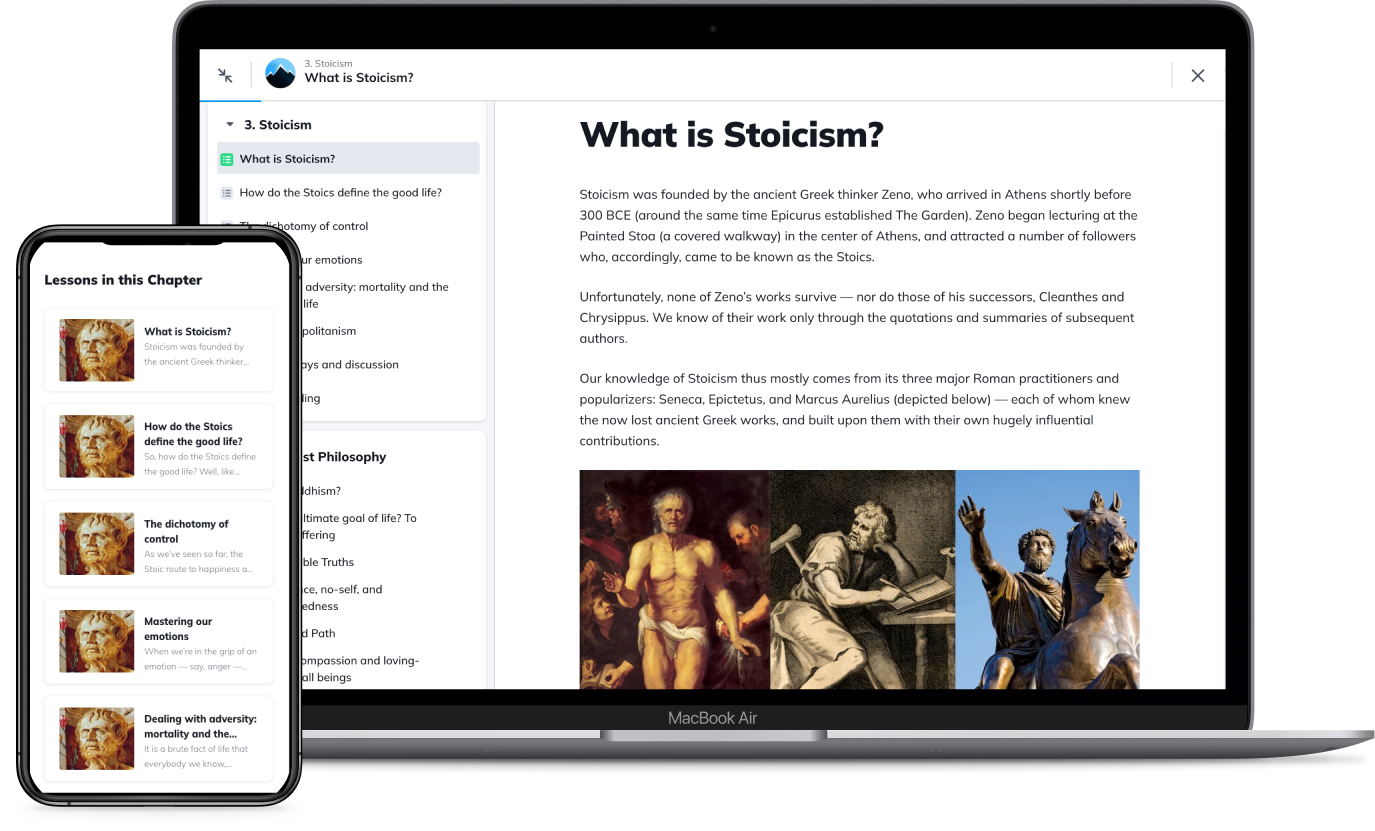
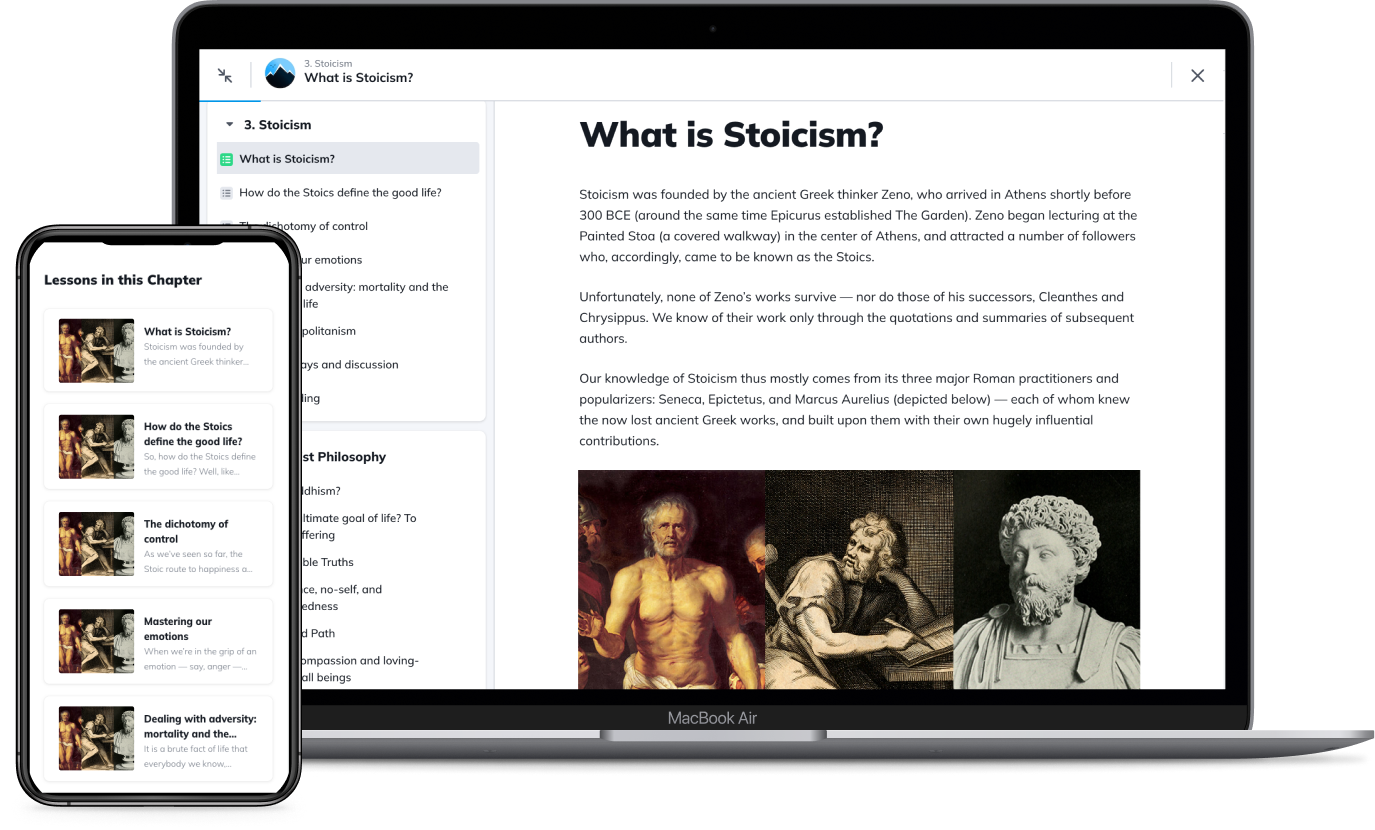
final-bits

diff --git a/src/components/layout.css b/src/components/layout.css
@@ -550,24 +550,25 @@ div.separator {width: 80px; height: 4px; background:linear-gradient(to right top
 /*title center vertically on /articles & fade in (look in js), and moved from bottom 20% to 10% on individual articles (look in js)*/
 div.title-center {position: absolute; left: 0; right: 0;}
 .carousel-cell div.title-center {top: 50%; -ms-transform: translateY(-44%); transform: translateY(-44%);}
-.title div.title-center {bottom: 67px;}
+.title div.title-center {bottom: 54px;}
 div.title-center h1, div.title-center h2, div.title-center p, .title p, .title div, .title div a, .title p a {color: #fff;}
 div.title-center h2 {font-size: 36px; margin: 0; font-weight: 700;}
 div.title-center .description {font-size: 16px; font-family: 'Spectral', serif; letter-spacing: -0.5px;}
-.title.no-author div.title-center .description {margin-bottom: 0;}
 .time {font-size: 12px; font-weight: 400;}
 .time svg, .time div {width: 18px; height: 18px; margin-right: 6px;}
 .time svg {vertical-align: bottom;}
 .time div {vertical-align: sub;}
 svg.bounce {margin-right: 0;}
-.title p.break, .carousel-cell p.break, .featured-image-full p.break {position: absolute; bottom: 26px; left: 0; right: 0;}
+.title p.break, .carousel-cell p.break, .featured-image-full p.break {position: absolute; bottom: 15px; left: 0; right: 0;}
 /*scroll prompt*/
 .scroll-prompt {position: absolute; bottom: 16px; left:76px;}
 .scroll-prompt svg {width: 20px; height: 20px; fill: #fff;}
 .bottom-blue-border {padding-bottom: 1px; border-bottom: solid 2px #36b4ff; font-size: 11px;}
 /*image attribution*/
-#break-start p.hero-image-attribution {font-family: 'Public Sans'; color: #737d88; font-size: 13px; font-style: italic; margin-bottom: 2em;}
+#break-start p.hero-image-attribution svg {fill: #737d88; width: 16px; height: 16px; vertical-align:text-bottom;}
+#break-start p.hero-image-attribution {font-family: 'Public Sans'; color: #737d88; font-size: 14px; font-style: italic; margin-top: 0.5em;margin-bottom: 2em;}
 #break-start p.hero-image-attribution a {color: #737d88; text-decoration-color: #737d88;}
+#break-start p.hero-image-attribution a:hover {color: #fff;}
 /*hide description on small screens*/
 @media (max-height: 475px) {
   .carousel-cell .description, .title .description {display: none;}
@@ -581,11 +582,11 @@ svg.bounce {margin-right: 0;}
   .scroll-prompt {left:0; right: 0;}
   .scroll-prompt svg {margin-left: 76px;}
   .bottom-blue-border {font-size: 12px;}
-  #break-start p.hero-image-attribution {font-size: 15px; margin-top: -0.75em !important;}
+  #break-start p.hero-image-attribution svg {width: 17px; height: 17px; vertical-align: text-top;} 
+  #break-start p.hero-image-attribution {font-size: 15px; margin-top: -0.9em !important;}
 }
 @media (min-width: 1020px) {
-  .title div.title-center {bottom: 26px;}
-  .title.title.no-author div.title-center {bottom: 22px;}
+  .title div.title-center {bottom: 15px;}
   div.page-center.title-center.rl {width: 600px;} /*reading lists*/
 }
 /*change title layout for articles on larger screens to match sidebar*/
@@ -600,7 +601,7 @@ svg.bounce {margin-right: 0;}
 /*reading list title*/
 .title.list {height: 420px;}
 .title.list div.darkener {background: linear-gradient(to bottom, transparent, rgba(0,0,0,0.8));}
-.title.list div.title-center {bottom: 18px;}
+.title.list div.title-center {bottom: 10px;}
 .time.tag {font-size: 10px; margin-bottom: 4px; display: inline-block; color: #fff;}
 .time.tag.home {font-size: 12px;}
 .time.tag.new {margin-left: 6px;}
@@ -620,8 +621,6 @@ div.separator.course.chapter {width: 136px; margin: -3px auto 10px;}
 div.separator.chapter {margin: -3px 0 10px; width: 86px;}
 .title.list h1 {font-size: 36px;}
 .title.list h1 span {font-family: 'Spectral', serif; letter-spacing: -0.5px; margin: 5px 0 0; font-size: 24px; display:block; font-weight: 400;}
-div.attribution span {font-style: italic; font-size: 13px; margin-top: 10px; display: block; color: rgba(255, 255, 255, 0.75)}
-div.attribution span a {color: rgba(255, 255, 255, 0.75); text-decoration-color: rgba(255, 255, 255, 0.75);}
 @media (min-width: 620px) {
   .time.tag {font-size: 12px; margin-bottom: 6px;}
   .time.tag.home {font-size: 14px;}
@@ -639,7 +638,6 @@ div.attribution span a {color: rgba(255, 255, 255, 0.75); text-decoration-color:
   div.separator.course.chapter {width: 164px;}
   .title.list h1 {font-size: 45px;}
   .title.list h1 span {font-size: 28px;}
-  div.attribution span {font-size: 15px;}
 }
 @media (min-width: 1020px) {
   div.separator.reading-list, div.separator.reading-list.banner, #break-start div.separator.reading-list.banner {display: block;}

diff --git a/src/pages/reading-lists/aristotle/index.js b/src/pages/reading-lists/aristotle/index.js
@@ -22,13 +22,18 @@ const ReadingList = ({ data, location }) => {
     <Navigation />
         <ScrollProgressBar />
         {/*reading list title*/}
-        <TitleReadingList title="Aristotle" number="9" img={data.title.childImageSharp.gatsbyImageData} alt="The Book, by Juan Gris" />
+        <TitleReadingList title="Aristotle" number="9" img={data.title.childImageSharp.gatsbyImageData} alt="Aristotle with a Bust of Homer, by Rembrandt (1653)"/>
         
         {/*container for sidebar*/}
         <div id="container">
 
           {/*reading list content*/}
           <div id="break-start" className="page-center" style={{marginBottom: 48}}>
+
+              {/*image attribution*/}
+              <p className="hero-image-attribution"><svg xmlns="http://www.w3.org/2000/svg" viewBox="0 0 512 512"><path d="M464 448H48c-26.51 0-48-21.49-48-48V112c0-26.51 21.49-48 48-48h416c26.51 0 48 21.49 48 48v288c0 26.51-21.49 48-48 48zM112 120c-30.928 0-56 25.072-56 56s25.072 56 56 56 56-25.072 56-56-25.072-56-56-56zM64 384h384V272l-87.515-87.515c-4.686-4.686-12.284-4.686-16.971 0L208 320l-55.515-55.515c-4.686-4.686-12.284-4.686-16.971 0L64 336v48z"/></svg>&nbsp;&nbsp;Aristotle with a Bust of Homer, by Rembrandt (1653), <a target="_blank" rel="noopener noreferrer" href="https://commons.wikimedia.org/wiki/File:Rembrandt_-_Aristotle_with_a_Bust_of_Homer_-_WGA19232.jpg">via Wikimedia Commons</a></p>
+              
+              
               <p><span className="big-letter">A</span>ristotle was an ancient Greek philosopher who, like his <Link to="/reading-lists/plato/">legendary teacher Plato</Link> (and <i>his</i> legendary teacher, <Link to="/reading-lists/socrates/">Socrates</Link>), is considered to be one of the most significant figures in the <Link to="/reading-lists/history-of-western-philosophy/">history of Western philosophy</Link>. Over his lifetime, he transformed most of the subjects he investigated, writing as many as 200 treatises (of which only 31 survive) on topics ranging from logic, <Link to="/reading-lists/political-philosophy/">politics</Link>, and <Link to="/reading-lists/ethics-and-morality/">ethics</Link>, to biology, mathematics, and <Link to="/reading-lists/metaphysics/">metaphysics</Link>. </p> 
 
               <p>It was largely from Aristotle’s works that the West inherited its entire intellectual approach, including the problems it investigates and its methods of inquiry. Consequently, like Plato, Aristotle holds a unique influence on almost every form of knowledge in the West, and his writings continue to be a subject of contemporary debate today.</p>    
@@ -71,7 +76,7 @@ const ReadingList = ({ data, location }) => {
               <h2>4. How to Live a Good Life (According to 7 of the World’s Wisest Philosophies), by Philosophy Break</h2>
               <div className="article white">
                   <Link to="/how-to-live-a-good-life/">
-                        <StaticImage src="../../../images/PFL-mob.png" alt="How to Live a Good Life" placeholder="blurred" />
+                        <StaticImage src="../../../images/how-to-live-a-good-life.png" alt="How to Live a Good Life" placeholder="blurred" />
                         <div className="article-info">
                             <h4>How to Live a Good Life (According to 7 of the World’s Wisest Philosophies)</h4>
                             <p className="time"><svg xmlns="http://www.w3.org/2000/svg" viewBox="0 0 50 50"><path d="M48.336,7.54c-0.701,0-1.359,0.007-2.018,0.024V5.326h-0.734c-14.262,0-19.043,3.411-20.585,5.252 c-1.542-1.841-6.323-5.252-20.585-5.252H3.68v2.237C3.022,7.545,2.364,7.54,1.664,7.54H0V39.89h1.664 c17.595,0,21.186,4.035,21.698,4.784h3.302c0.557-0.784,4.218-4.784,21.673-4.784H50V7.54H48.336z M23.899,38.431 c-2.457-1.812-7.611-3.914-18.383-4.054V7.175c15.087,0.194,18.001,4.327,18.383,5V38.431z M44.484,34.377 c-10.772,0.14-15.926,2.24-18.383,4.054V12.184c0.416-0.737,3.412-4.814,18.383-5.007V34.377z"></path></svg>BY PHILOSOPHY BREAK</p>
@@ -139,7 +144,7 @@ const ReadingList = ({ data, location }) => {
 }
 
 export const query = graphql`{
-  title: file(relativePath: {eq: "rl3.jpg"}) {
+  title: file(relativePath: {eq: "aristotle.jpeg"}) {
     childImageSharp {
       gatsbyImageData(layout: FULL_WIDTH)
     }

diff --git a/src/pages/reading-lists/friedrich-nietzsche/index.js b/src/pages/reading-lists/friedrich-nietzsche/index.js
@@ -22,13 +22,17 @@ const ReadingList = ({ data, location }) => {
     <Navigation />
         <ScrollProgressBar />
         {/*reading list title*/}
-        <TitleReadingList title="Friedrich Nietzsche" number="9" img={data.title.childImageSharp.gatsbyImageData} alt="Fruit and Book, by Juan Gris" />
+        <TitleReadingList title="Friedrich Nietzsche" number="9" img={data.title.childImageSharp.gatsbyImageData} alt="Portrait of Friedrich Nietzsche, by Rudolf Köselitz (1883)" />
         
         {/*container for sidebar*/}
         <div id="container">
 
           {/*reading list content*/}
           <div id="break-start" className="page-center" style={{marginBottom: 48}}>
+
+              {/*image attribution*/}
+              <p className="hero-image-attribution"><svg xmlns="http://www.w3.org/2000/svg" viewBox="0 0 512 512"><path d="M464 448H48c-26.51 0-48-21.49-48-48V112c0-26.51 21.49-48 48-48h416c26.51 0 48 21.49 48 48v288c0 26.51-21.49 48-48 48zM112 120c-30.928 0-56 25.072-56 56s25.072 56 56 56 56-25.072 56-56-25.072-56-56-56zM64 384h384V272l-87.515-87.515c-4.686-4.686-12.284-4.686-16.971 0L208 320l-55.515-55.515c-4.686-4.686-12.284-4.686-16.971 0L64 336v48z"/></svg>&nbsp;&nbsp;Portrait of Friedrich Nietzsche, by Rudolf Köselitz (1883), <a target="_blank" rel="noopener noreferrer" href="https://commons.wikimedia.org/wiki/File:K%C3%B6selitz-Nietzsche.jpg">via Wikimedia Commons</a></p>
+            
               <p><span className="big-letter">F</span>riedrich Nietzsche (1844-1900) was a 19th-century German philosopher who, though hardly read during his own (sane) lifetime, has become a dominant intellectual force in today’s popular culture.</p>
               <p>Perhaps best known for his proclamation that <Link to="/articles/god-is-dead-nietzsche-famous-statement-explained/">God is dead</Link>, along with his critique of conventional morality and religion, Nietzsche is remembered for his attempt to establish what he called a ‘revaluation of all values’, and is celebrated for his brilliant, provocative aphorisms and idea-packed prose (which includes, for instance, his vision of the <Link to="/articles/ubermensch-explained-the-meaning-of-nietzsches-superman/">Übermensch</Link>, his distinction between the <Link to="/articles/apollonian-and-dionysian-nietzsche-on-art-and-the-psyche/">Apollonian and Dionysian</Link>, his presentation of <Link to="/articles/eternal-recurrence-what-did-nietzsche-really-mean/">the eternal recurrence</Link>, <Link to="/articles/amor-fati-the-stoics-and-nietzsche-different-takes-on-loving-fate/"><i>amor fati</i></Link>, what it means to <Link to="/articles/nietzsche-on-what-finding-yourself-actually-means/">find yourself</Link>, his famous passage on <Link to="/articles/nietzsche-on-friends-growing-apart/">friends growing apart</Link>, and all of the <Link to="/articles/nietzsche-quotes-97-of-his-cleverest-statements/">97 clever Nietzsche passages and quotations we’ve collated here</Link>).</p>
               <p>Accordingly, Nietzsche’s reputation in the English-speaking world is now arguably the highest it’s ever been, and his place in philosophy’s canon looks assured.</p> 
@@ -203,7 +207,7 @@ const ReadingList = ({ data, location }) => {
 }
 
 export const query = graphql`{
-  title: file(relativePath: {eq: "rl2.jpg"}) {
+  title: file(relativePath: {eq: "nietzsche.jpg"}) {
     childImageSharp {
       gatsbyImageData(layout: FULL_WIDTH)
     }

diff --git a/src/pages/reading-lists/index.js b/src/pages/reading-lists/index.js
@@ -106,7 +106,7 @@ const Page = ({ data, location }) => {
                 
                 <BannerReadingList title="Plato" number="6" link="/reading-lists/plato/" img={data.rl2.childImageSharp.gatsbyImageData} alt="Fruit and Book, by Juan Gris" />
 
-                <BannerReadingList title="Aristotle" number="9" link="/reading-lists/aristotle/" img={data.rl3.childImageSharp.gatsbyImageData} alt="The Book, by Juan Gris" />
+                <BannerReadingList title="Aristotle" number="9" link="/reading-lists/aristotle/" img={data.aristotle.childImageSharp.gatsbyImageData} alt="Aristotle with a Bust of Homer, by Rembrandt (1653)" />
 
                 <BannerReadingList title="Epicurus" number="6" link="/reading-lists/epicureanism/" img={data.rl4.childImageSharp.gatsbyImageData} alt="The Open Book, by Juan Gris" />
 
@@ -136,7 +136,7 @@ const Page = ({ data, location }) => {
 
                 <BannerReadingList title="Leo Tolstoy" number="5" link="/reading-lists/leo-tolstoy-best-books/" img={data.rl2.childImageSharp.gatsbyImageData} alt="Fruit and Book, by Juan Gris" />
                 
-                <BannerReadingList title="Friedrich Nietzsche" number="9" link="/reading-lists/friedrich-nietzsche/" img={data.rl3.childImageSharp.gatsbyImageData} alt="The Book, by Juan Gris" />
+                <BannerReadingList title="Friedrich Nietzsche" number="9" link="/reading-lists/friedrich-nietzsche/" img={data.nietzsche.childImageSharp.gatsbyImageData} alt="Portrait of Friedrich Nietzsche, by Rudolf Köselitz (1883)" />
 
                 <BannerReadingList title="Franz Kafka" number="5" link="/reading-lists/franz-kafka-best-books/" img={data.rl4.childImageSharp.gatsbyImageData} alt="The Open Book, by Juan Gris" />
 
@@ -273,6 +273,16 @@ export const query = graphql`{
   philosophybreak: file(relativePath: {eq: "philosophybreak.png"}) {
     childImageSharp {
       gatsbyImageData(width: 22, layout: CONSTRAINED)
+    }
+  }
+  nietzsche: file(relativePath: {eq: "nietzsche.jpg"}) {
+    childImageSharp {
+      gatsbyImageData(width: 480, layout: CONSTRAINED)
+    }
+  }
+  aristotle: file(relativePath: {eq: "aristotle.jpeg"}) {
+    childImageSharp {
+      gatsbyImageData(width: 480, layout: CONSTRAINED)
     }
   }
 }

diff --git a/src/pages/reading-lists/introduction-to-philosophy/index.js b/src/pages/reading-lists/introduction-to-philosophy/index.js
@@ -73,7 +73,7 @@ const ReadingList = ({ data, location }) => {
                 <h2>4. How to Live a Good Life (According to 7 of the World’s Wisest Philosophies), by Philosophy Break</h2>
                   <div className="article white">
                       <Link to="/how-to-live-a-good-life/">
-                            <StaticImage src="../../../images/PFL-mob.png" alt="How to Live a Good Life" placeholder="blurred" />
+                            <StaticImage src="../../../images/how-to-live-a-good-life.png" alt="How to Live a Good Life" placeholder="blurred" />
                             <div className="article-info">
                                 <h4>How to Live a Good Life (According to 7 of the World’s Wisest Philosophies)</h4>
                                 <p className="time"><svg xmlns="http://www.w3.org/2000/svg" viewBox="0 0 50 50"><path d="M48.336,7.54c-0.701,0-1.359,0.007-2.018,0.024V5.326h-0.734c-14.262,0-19.043,3.411-20.585,5.252 c-1.542-1.841-6.323-5.252-20.585-5.252H3.68v2.237C3.022,7.545,2.364,7.54,1.664,7.54H0V39.89h1.664 c17.595,0,21.186,4.035,21.698,4.784h3.302c0.557-0.784,4.218-4.784,21.673-4.784H50V7.54H48.336z M23.899,38.431 c-2.457-1.812-7.611-3.914-18.383-4.054V7.175c15.087,0.194,18.001,4.327,18.383,5V38.431z M44.484,34.377 c-10.772,0.14-15.926,2.24-18.383,4.054V12.184c0.416-0.737,3.412-4.814,18.383-5.007V34.377z"></path></svg>BY PHILOSOPHY BREAK</p>

diff --git a/src/pages/reading-lists/ethics-and-morality/index.js b/src/pages/reading-lists/ethics-and-morality/index.js
@@ -64,7 +64,7 @@ const ReadingList = ({ data, location }) => {
               <h2>4. How to Live a Good Life (According to 7 of the World’s Wisest Philosophies), by Philosophy Break</h2>
                   <div className="article white">
                       <Link to="/how-to-live-a-good-life/">
-                            <StaticImage src="../../../images/PFL-mob.png" alt="How to Live a Good Life" placeholder="blurred" />
+                            <StaticImage src="../../../images/how-to-live-a-good-life.png" alt="How to Live a Good Life" placeholder="blurred" />
                             <div className="article-info">
                                 <h4>How to Live a Good Life (According to 7 of the World’s Wisest Philosophies)</h4>
                                 <p className="time"><svg xmlns="http://www.w3.org/2000/svg" viewBox="0 0 50 50"><path d="M48.336,7.54c-0.701,0-1.359,0.007-2.018,0.024V5.326h-0.734c-14.262,0-19.043,3.411-20.585,5.252 c-1.542-1.841-6.323-5.252-20.585-5.252H3.68v2.237C3.022,7.545,2.364,7.54,1.664,7.54H0V39.89h1.664 c17.595,0,21.186,4.035,21.698,4.784h3.302c0.557-0.784,4.218-4.784,21.673-4.784H50V7.54H48.336z M23.899,38.431 c-2.457-1.812-7.611-3.914-18.383-4.054V7.175c15.087,0.194,18.001,4.327,18.383,5V38.431z M44.484,34.377 c-10.772,0.14-15.926,2.24-18.383,4.054V12.184c0.416-0.737,3.412-4.814,18.383-5.007V34.377z"></path></svg>BY PHILOSOPHY BREAK</p>

diff --git a/src/pages/reading-lists/marcus-aurelius-best-books/index.js b/src/pages/reading-lists/marcus-aurelius-best-books/index.js
@@ -122,7 +122,7 @@ const ReadingList = ({ data, location }) => {
               <h2>5. How to Live a Good Life (According to 7 of the World’s Wisest Philosophies), by Philosophy Break</h2>
               <div className="article white">
                   <Link to="/how-to-live-a-good-life/">
-                        <StaticImage src="../../../images/PFL-mob.png" alt="How to Live a Good Life" placeholder="blurred" />
+                        <StaticImage src="../../../images/how-to-live-a-good-life.png" alt="How to Live a Good Life" placeholder="blurred" />
                         <div className="article-info">
                             <h4>How to Live a Good Life (According to 7 of the World’s Wisest Philosophies)</h4>
                             <p className="time"><svg xmlns="http://www.w3.org/2000/svg" viewBox="0 0 50 50"><path d="M48.336,7.54c-0.701,0-1.359,0.007-2.018,0.024V5.326h-0.734c-14.262,0-19.043,3.411-20.585,5.252 c-1.542-1.841-6.323-5.252-20.585-5.252H3.68v2.237C3.022,7.545,2.364,7.54,1.664,7.54H0V39.89h1.664 c17.595,0,21.186,4.035,21.698,4.784h3.302c0.557-0.784,4.218-4.784,21.673-4.784H50V7.54H48.336z M23.899,38.431 c-2.457-1.812-7.611-3.914-18.383-4.054V7.175c15.087,0.194,18.001,4.327,18.383,5V38.431z M44.484,34.377 c-10.772,0.14-15.926,2.24-18.383,4.054V12.184c0.416-0.737,3.412-4.814,18.383-5.007V34.377z"></path></svg>BY PHILOSOPHY BREAK</p>

diff --git a/src/pages/reading-lists/buddhist-philosophy/index.js b/src/pages/reading-lists/buddhist-philosophy/index.js
@@ -69,7 +69,7 @@ const ReadingList = ({ data, location }) => {
               <h2>4. How to Live a Good Life (According to 7 of the World’s Wisest Philosophies), by Philosophy Break</h2>
               <div className="article white">
                   <Link to="/how-to-live-a-good-life/">
-                        <StaticImage src="../../../images/PFL-mob.png" alt="How to Live a Good Life" placeholder="blurred" />
+                        <StaticImage src="../../../images/how-to-live-a-good-life.png" alt="How to Live a Good Life" placeholder="blurred" />
                         <div className="article-info">
                             <h4>How to Live a Good Life (According to 7 of the World’s Wisest Philosophies)</h4>
                             <p className="time"><svg xmlns="http://www.w3.org/2000/svg" viewBox="0 0 50 50"><path d="M48.336,7.54c-0.701,0-1.359,0.007-2.018,0.024V5.326h-0.734c-14.262,0-19.043,3.411-20.585,5.252 c-1.542-1.841-6.323-5.252-20.585-5.252H3.68v2.237C3.022,7.545,2.364,7.54,1.664,7.54H0V39.89h1.664 c17.595,0,21.186,4.035,21.698,4.784h3.302c0.557-0.784,4.218-4.784,21.673-4.784H50V7.54H48.336z M23.899,38.431 c-2.457-1.812-7.611-3.914-18.383-4.054V7.175c15.087,0.194,18.001,4.327,18.383,5V38.431z M44.484,34.377 c-10.772,0.14-15.926,2.24-18.383,4.054V12.184c0.416-0.737,3.412-4.814,18.383-5.007V34.377z"></path></svg>BY PHILOSOPHY BREAK</p>

diff --git a/src/pages/reading-lists/confucius/index.js b/src/pages/reading-lists/confucius/index.js
@@ -60,7 +60,7 @@ const ReadingList = ({ data, location }) => {
               <h2>3. How to Live a Good Life (According to 7 of the World’s Wisest Philosophies), by Philosophy Break</h2>
               <div className="article white">
                   <Link to="/how-to-live-a-good-life/">
-                        <StaticImage src="../../../images/PFL-mob.png" alt="How to Live a Good Life" placeholder="blurred" />
+                        <StaticImage src="../../../images/how-to-live-a-good-life.png" alt="How to Live a Good Life" placeholder="blurred" />
                         <div className="article-info">
                             <h4>How to Live a Good Life (According to 7 of the World’s Wisest Philosophies)</h4>
                             <p className="time"><svg xmlns="http://www.w3.org/2000/svg" viewBox="0 0 50 50"><path d="M48.336,7.54c-0.701,0-1.359,0.007-2.018,0.024V5.326h-0.734c-14.262,0-19.043,3.411-20.585,5.252 c-1.542-1.841-6.323-5.252-20.585-5.252H3.68v2.237C3.022,7.545,2.364,7.54,1.664,7.54H0V39.89h1.664 c17.595,0,21.186,4.035,21.698,4.784h3.302c0.557-0.784,4.218-4.784,21.673-4.784H50V7.54H48.336z M23.899,38.431 c-2.457-1.812-7.611-3.914-18.383-4.054V7.175c15.087,0.194,18.001,4.327,18.383,5V38.431z M44.484,34.377 c-10.772,0.14-15.926,2.24-18.383,4.054V12.184c0.416-0.737,3.412-4.814,18.383-5.007V34.377z"></path></svg>BY PHILOSOPHY BREAK</p>

diff --git a/src/pages/reading-lists/epicureanism/index.js b/src/pages/reading-lists/epicureanism/index.js
@@ -65,7 +65,7 @@ const ReadingList = ({ data, location }) => {
               <h2>3. How to Live a Good Life (According to 7 of the World’s Wisest Philosophies), by Philosophy Break</h2>
               <div className="article white">
                   <Link to="/how-to-live-a-good-life/">
-                        <StaticImage src="../../../images/PFL-mob.png" alt="How to Live a Good Life" placeholder="blurred" />
+                        <StaticImage src="../../../images/how-to-live-a-good-life.png" alt="How to Live a Good Life" placeholder="blurred" />
                         <div className="article-info">
                             <h4>How to Live a Good Life (According to 7 of the World’s Wisest Philosophies)</h4>
                             <p className="time"><svg xmlns="http://www.w3.org/2000/svg" viewBox="0 0 50 50"><path d="M48.336,7.54c-0.701,0-1.359,0.007-2.018,0.024V5.326h-0.734c-14.262,0-19.043,3.411-20.585,5.252 c-1.542-1.841-6.323-5.252-20.585-5.252H3.68v2.237C3.022,7.545,2.364,7.54,1.664,7.54H0V39.89h1.664 c17.595,0,21.186,4.035,21.698,4.784h3.302c0.557-0.784,4.218-4.784,21.673-4.784H50V7.54H48.336z M23.899,38.431 c-2.457-1.812-7.611-3.914-18.383-4.054V7.175c15.087,0.194,18.001,4.327,18.383,5V38.431z M44.484,34.377 c-10.772,0.14-15.926,2.24-18.383,4.054V12.184c0.416-0.737,3.412-4.814,18.383-5.007V34.377z"></path></svg>BY PHILOSOPHY BREAK</p>

diff --git a/src/pages/reading-lists/existentialism/index.js b/src/pages/reading-lists/existentialism/index.js
@@ -65,7 +65,7 @@ const ReadingList = ({ data, location }) => {
               <h2>4. How to Live a Good Life (According to 7 of the World’s Wisest Philosophies), by Philosophy Break</h2>
               <div className="article white">
                   <Link to="/how-to-live-a-good-life/">
-                        <StaticImage src="../../../images/PFL-mob.png" alt="How to Live a Good Life" placeholder="blurred" />
+                        <StaticImage src="../../../images/how-to-live-a-good-life.png" alt="How to Live a Good Life" placeholder="blurred" />
                         <div className="article-info">
                             <h4>How to Live a Good Life (According to 7 of the World’s Wisest Philosophies)</h4>
                             <p className="time"><svg xmlns="http://www.w3.org/2000/svg" viewBox="0 0 50 50"><path d="M48.336,7.54c-0.701,0-1.359,0.007-2.018,0.024V5.326h-0.734c-14.262,0-19.043,3.411-20.585,5.252 c-1.542-1.841-6.323-5.252-20.585-5.252H3.68v2.237C3.022,7.545,2.364,7.54,1.664,7.54H0V39.89h1.664 c17.595,0,21.186,4.035,21.698,4.784h3.302c0.557-0.784,4.218-4.784,21.673-4.784H50V7.54H48.336z M23.899,38.431 c-2.457-1.812-7.611-3.914-18.383-4.054V7.175c15.087,0.194,18.001,4.327,18.383,5V38.431z M44.484,34.377 c-10.772,0.14-15.926,2.24-18.383,4.054V12.184c0.416-0.737,3.412-4.814,18.383-5.007V34.377z"></path></svg>BY PHILOSOPHY BREAK</p>

diff --git a/src/pages/reading-lists/stoicism/index.js b/src/pages/reading-lists/stoicism/index.js
@@ -80,7 +80,7 @@ const ReadingList = ({ data, location }) => {
               <h2>4. How to Live a Good Life (According to 7 of the World’s Wisest Philosophies), by Philosophy Break</h2>
               <div className="article white">
                   <Link to="/how-to-live-a-good-life/">
-                        <StaticImage src="../../../images/PFL-mob.png" alt="How to Live a Good Life" placeholder="blurred" />
+                        <StaticImage src="../../../images/how-to-live-a-good-life.png" alt="How to Live a Good Life" placeholder="blurred" />
                         <div className="article-info">
                             <h4>How to Live a Good Life (According to 7 of the World’s Wisest Philosophies)</h4>
                             <p className="time"><svg xmlns="http://www.w3.org/2000/svg" viewBox="0 0 50 50"><path d="M48.336,7.54c-0.701,0-1.359,0.007-2.018,0.024V5.326h-0.734c-14.262,0-19.043,3.411-20.585,5.252 c-1.542-1.841-6.323-5.252-20.585-5.252H3.68v2.237C3.022,7.545,2.364,7.54,1.664,7.54H0V39.89h1.664 c17.595,0,21.186,4.035,21.698,4.784h3.302c0.557-0.784,4.218-4.784,21.673-4.784H50V7.54H48.336z M23.899,38.431 c-2.457-1.812-7.611-3.914-18.383-4.054V7.175c15.087,0.194,18.001,4.327,18.383,5V38.431z M44.484,34.377 c-10.772,0.14-15.926,2.24-18.383,4.054V12.184c0.416-0.737,3.412-4.814,18.383-5.007V34.377z"></path></svg>BY PHILOSOPHY BREAK</p>
